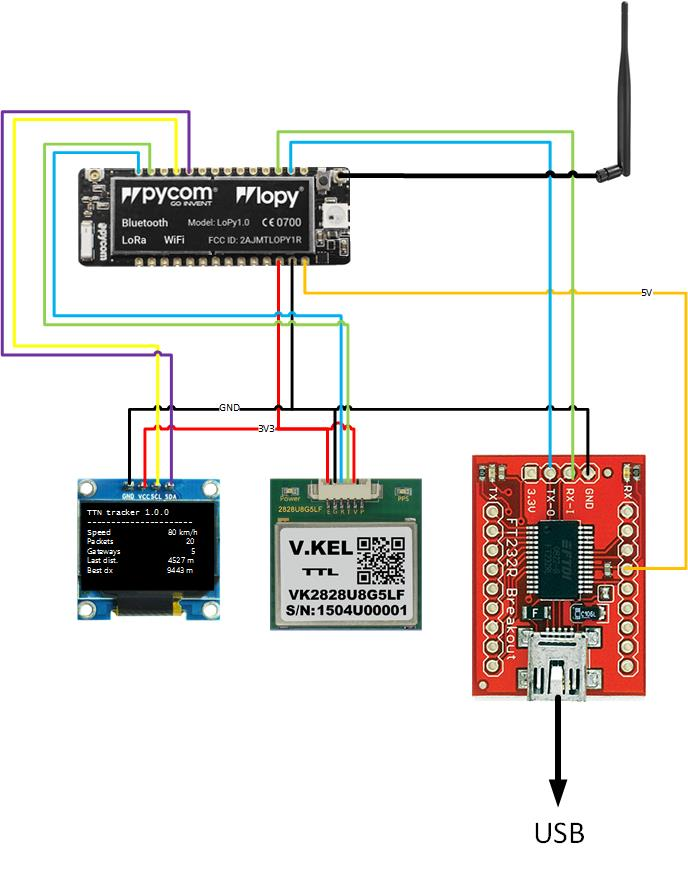
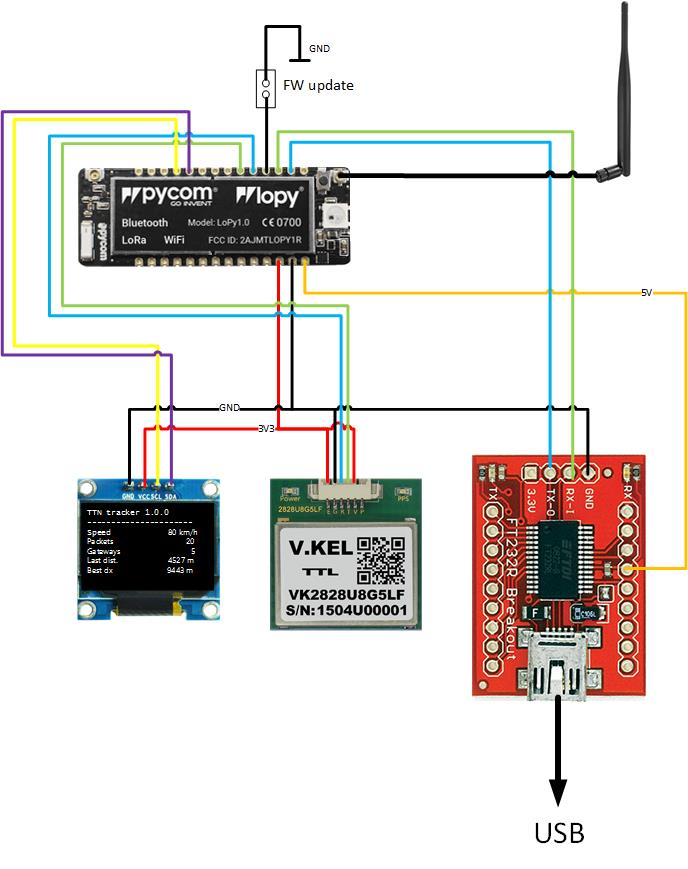
Move UART1 (GPS) to default pins
See issue #1: P12 is used to cold boot when active. If powered up the GPS will immidiately start sending

Changed region(s): [[0.061, 0.0311, 0.5189, 0.4039]]

diff --git a/config.py b/config.py
@@ -22,8 +22,8 @@ APP_KEY = 'your APP_KEY'
 TTN_FPort = 1
 
 # GPS UART connection
-TX = "P11"
-RX = "P12"
+TX = "P3"
+RX = "P4"
 
 # Display I2C connection
 SDA = "P9"

diff --git a/README.md b/README.md
@@ -4,7 +4,7 @@ Python code to track the location of a LoPy TTN node to TTNmapper
 # Blog info
 https://keptenkurk.wordpress.com/2018/03/05/mapping-the-things-network-with-a-lopy-1/
 
-# Uses:
+# Uses: 
 * Pycom LoPy ver 1.17.0.b1 (not tested on LoPy4 or earlier firmwares)
 * Connected GPS VK2828U8G5LF
     Configured for NMEA GPGGA sentences only at a rate of 1/s
